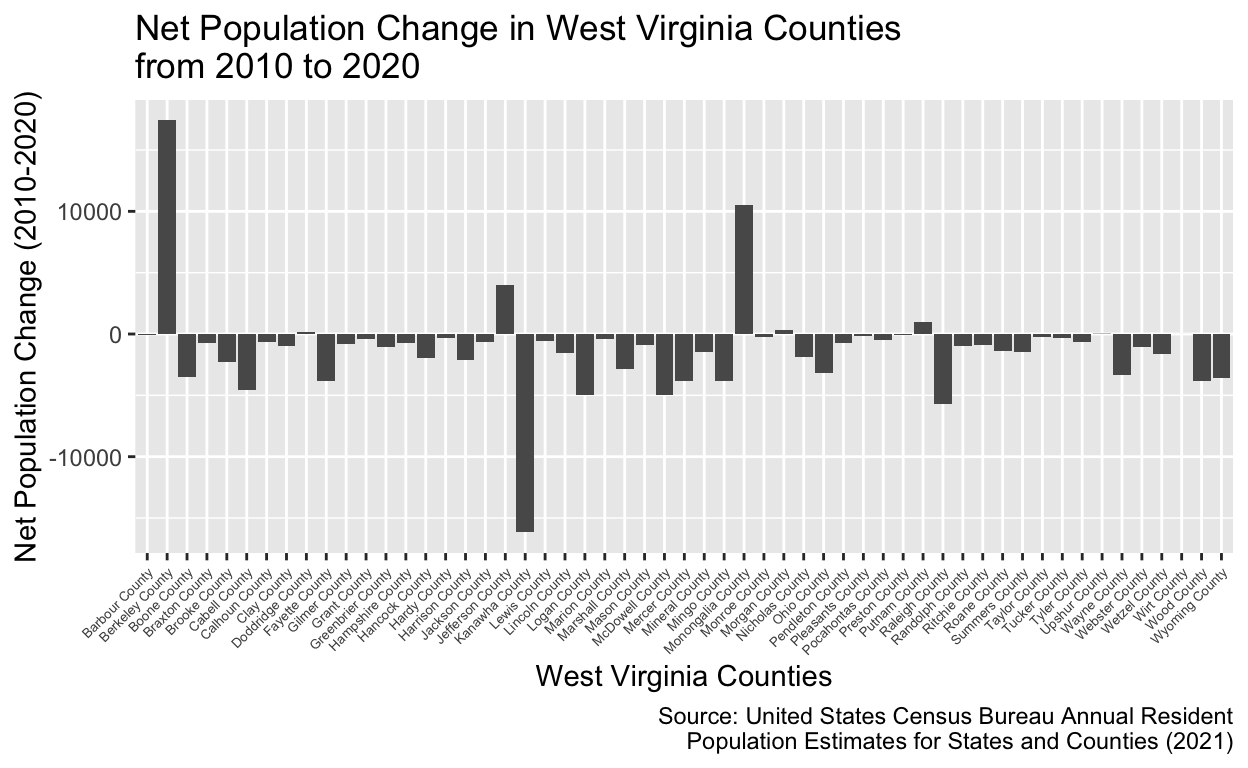
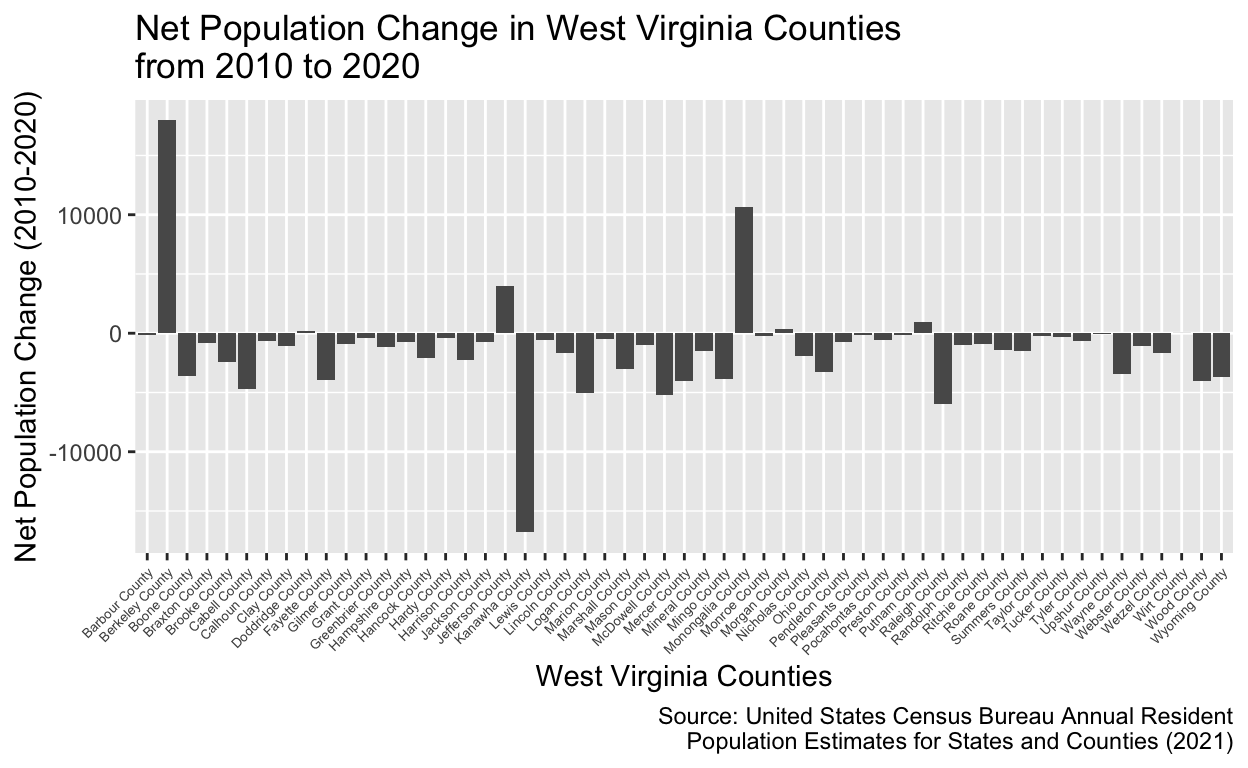
added regression between years of interest

Changed region(s): [[0.1562, 0.25, 0.9688, 0.2812], [0.0312, 0.5625, 0.125, 0.625], [0.0312, 0.25, 0.125, 0.3125]]

diff --git a/index.html b/index.html
@@ -1538,11 +1538,9 @@ code span.wa { color: #5e5e5e; font-style: italic; } /* Warning */
 <span></span>
 <span><span class='va'>WVpopchange</span> <span class='op'>&lt;-</span> <span class='va'>censusPop</span> <span class='op'>|&gt;</span></span>
 <span>  <span class='fu'><a href='https://dplyr.tidyverse.org/reference/filter.html'>filter</a></span><span class='op'>(</span><span class='va'>STATE</span> <span class='op'>==</span> <span class='fl'>54</span><span class='op'>)</span> <span class='op'>|&gt;</span></span>
-<span>  <span class='fu'><a href='https://dplyr.tidyverse.org/reference/group_by.html'>group_by</a></span><span class='op'>(</span><span class='va'>CTYNAME</span>, <span class='va'>CENSUS2010POP</span>, <span class='va'>POPESTIMATE042020</span><span class='op'>)</span> <span class='op'>|&gt;</span></span>
+<span>  <span class='fu'><a href='https://dplyr.tidyverse.org/reference/group_by.html'>group_by</a></span><span class='op'>(</span><span class='va'>CTYNAME</span>, <span class='va'>CENSUS2010POP</span>, <span class='va'>POPESTIMATE2020</span><span class='op'>)</span> <span class='op'>|&gt;</span></span>
 <span>  <span class='fu'><a href='https://dplyr.tidyverse.org/reference/summarise.html'>summarize</a></span><span class='op'>(</span>popdiff <span class='op'>=</span></span>
-<span>              <span class='fu'><a href='https://rdrr.io/r/base/integer.html'>as.integer</a></span><span class='op'>(</span><span class='va'>`POPESTIMATE042020`</span><span class='op'>)</span> <span class='op'>-</span> <span class='fu'><a href='https://rdrr.io/r/base/integer.html'>as.integer</a></span><span class='op'>(</span><span class='va'>`CENSUS2010POP`</span><span class='op'>)</span>,</span>
-<span>            pospopdiff <span class='op'>=</span> </span>
-<span>              <span class='fu'><a href='https://dplyr.tidyverse.org/reference/if_else.html'>if_else</a></span><span class='op'>(</span><span class='va'>popdiff</span> <span class='op'>&gt;=</span> <span class='fl'>0</span>, <span class='fl'>1</span>, <span class='fl'>0</span><span class='op'>)</span><span class='op'>)</span></span>
+<span>              <span class='fu'><a href='https://rdrr.io/r/base/integer.html'>as.integer</a></span><span class='op'>(</span><span class='va'>`POPESTIMATE2020`</span><span class='op'>)</span> <span class='op'>-</span> <span class='fu'><a href='https://rdrr.io/r/base/integer.html'>as.integer</a></span><span class='op'>(</span><span class='va'>`CENSUS2010POP`</span><span class='op'>)</span><span class='op'>)</span></span>
 <span></span>
 <span><span class='va'>WVpopchange</span> <span class='op'>&lt;-</span> <span class='va'>WVpopchange</span><span class='op'>[</span><span class='op'>-</span><span class='fl'>52</span>,<span class='op'>]</span></span>
 <span></span>
@@ -1574,61 +1572,178 @@ code span.wa { color: #5e5e5e; font-style: italic; } /* Warning */
 <span></span>
 <span><span class='va'>cleanWVU2020</span> <span class='op'>&lt;-</span> <span class='va'>WVU2020</span><span class='op'>[</span><span class='op'>-</span><span class='fu'><a href='https://rdrr.io/r/base/c.html'>c</a></span><span class='op'>(</span><span class='fl'>1</span>,<span class='fl'>2</span>,<span class='fl'>3</span>,<span class='fl'>4</span>,<span class='fl'>5</span>,<span class='fl'>6</span>,<span class='fl'>7</span><span class='op'>)</span>,<span class='op'>]</span> <span class='op'>|&gt;</span></span>
 <span>  <span class='fu'><a href='https://dplyr.tidyverse.org/reference/rename.html'>rename</a></span><span class='op'>(</span><span class='st'>"CTYNAME"</span> <span class='op'>=</span> <span class='st'>"Unemployment.Rates..2020..West.Virginia"</span>,</span>
-<span>         <span class='st'>"LaborForce"</span> <span class='op'>=</span> <span class='st'>"X"</span>,</span>
-<span>         <span class='st'>"EmployedPop"</span> <span class='op'>=</span> <span class='st'>"X.1"</span>,</span>
-<span>         <span class='st'>"UnemployedPop"</span> <span class='op'>=</span> <span class='st'>"X.2"</span>,</span>
-<span>         <span class='st'>"UnemploymentRate"</span> <span class='op'>=</span> <span class='st'>"X.3"</span>,</span>
-<span>         <span class='st'>"UnemploymentRateAsPctOfUSAvg"</span> <span class='op'>=</span> <span class='st'>"X.4"</span><span class='op'>)</span></span>
+<span>         <span class='st'>"LaborForce2020"</span> <span class='op'>=</span> <span class='st'>"X"</span>,</span>
+<span>         <span class='st'>"EmployedPop2020"</span> <span class='op'>=</span> <span class='st'>"X.1"</span>,</span>
+<span>         <span class='st'>"UnemployedPop2020"</span> <span class='op'>=</span> <span class='st'>"X.2"</span>,</span>
+<span>         <span class='st'>"UnemploymentRate2020"</span> <span class='op'>=</span> <span class='st'>"X.3"</span>,</span>
+<span>         <span class='st'>"UnemploymentRateAsPctOfUSAvg2020"</span> <span class='op'>=</span> <span class='st'>"X.4"</span><span class='op'>)</span></span>
 <span></span>
 <span><span class='va'>WVpopchange</span><span class='op'>[</span>,<span class='fl'>1</span><span class='op'>]</span> <span class='op'>=</span> <span class='va'>cleanWVU2020</span><span class='op'>[</span>,<span class='fl'>1</span><span class='op'>]</span></span>
 <span></span>
-<span><span class='va'>temp</span> <span class='op'>&lt;-</span> <span class='va'>cleanWVU2020</span> <span class='op'>|&gt;</span></span>
+<span><span class='va'>temp2020</span> <span class='op'>&lt;-</span> <span class='va'>cleanWVU2020</span> <span class='op'>|&gt;</span></span>
 <span>  <span class='fu'><a href='https://dplyr.tidyverse.org/reference/mutate-joins.html'>full_join</a></span><span class='op'>(</span><span class='va'>WVpopchange</span><span class='op'>)</span> <span class='op'>|&gt;</span></span>
-<span>  <span class='fu'><a href='https://dplyr.tidyverse.org/reference/mutate.html'>mutate</a></span><span class='op'>(</span>pctPopchange <span class='op'>=</span></span>
-<span>           <span class='fu'><a href='https://rdrr.io/r/base/integer.html'>as.integer</a></span><span class='op'>(</span><span class='va'>`POPESTIMATE042020`</span><span class='op'>)</span> <span class='op'>/</span></span>
+<span>  <span class='fu'><a href='https://dplyr.tidyverse.org/reference/mutate.html'>mutate</a></span><span class='op'>(</span>pctPop2010change2020 <span class='op'>=</span></span>
+<span>           <span class='fu'><a href='https://rdrr.io/r/base/integer.html'>as.integer</a></span><span class='op'>(</span><span class='va'>`POPESTIMATE2020`</span><span class='op'>)</span> <span class='op'>/</span></span>
 <span>           <span class='fu'><a href='https://rdrr.io/r/base/integer.html'>as.integer</a></span><span class='op'>(</span><span class='va'>`CENSUS2010POP`</span><span class='op'>)</span><span class='op'>)</span> </span>
 <span></span>
-<span><span class='va'>temp</span><span class='op'>[</span>,<span class='fl'>5</span><span class='op'>]</span> <span class='op'>=</span> <span class='fu'><a href='https://rdrr.io/r/base/numeric.html'>as.numeric</a></span><span class='op'>(</span><span class='fu'><a href='https://rdrr.io/r/base/grep.html'>sub</a></span><span class='op'>(</span><span class='st'>"%"</span>, <span class='st'>""</span>, <span class='va'>temp</span><span class='op'>$</span><span class='va'>UnemploymentRate</span>, fixed<span class='op'>=</span><span class='cn'>TRUE</span><span class='op'>)</span><span class='op'>)</span><span class='op'>/</span><span class='fl'>100</span></span>
+<span><span class='va'>temp2020</span><span class='op'>[</span>,<span class='fl'>5</span><span class='op'>]</span> <span class='op'>=</span> <span class='fu'><a href='https://rdrr.io/r/base/numeric.html'>as.numeric</a></span><span class='op'>(</span><span class='fu'><a href='https://rdrr.io/r/base/grep.html'>sub</a></span><span class='op'>(</span><span class='st'>"%"</span>, <span class='st'>""</span>, <span class='va'>temp2020</span><span class='op'>$</span><span class='va'>UnemploymentRate2020</span>, fixed<span class='op'>=</span><span class='cn'>TRUE</span><span class='op'>)</span><span class='op'>)</span><span class='op'>/</span><span class='fl'>100</span></span>
 <span></span>
-<span><span class='fu'><a href='https://rdrr.io/r/stats/lm.html'>lm</a></span><span class='op'>(</span><span class='va'>pctPopchange</span> <span class='op'>~</span> <span class='va'>UnemploymentRate</span>, data <span class='op'>=</span> <span class='va'>temp</span><span class='op'>)</span> <span class='op'>|&gt;</span></span>
+<span><span class='fu'><a href='https://rdrr.io/r/stats/lm.html'>lm</a></span><span class='op'>(</span><span class='va'>pctPop2010change2020</span> <span class='op'>~</span> <span class='va'>UnemploymentRate2020</span>, data <span class='op'>=</span> <span class='va'>temp2020</span><span class='op'>)</span> <span class='op'>|&gt;</span></span>
 <span>  <span class='fu'><a href='https://rdrr.io/r/base/summary.html'>summary</a></span><span class='op'>(</span><span class='op'>)</span></span></code></pre>
 </div>
 <pre><code>
 Call:
-lm(formula = pctPopchange ~ UnemploymentRate, data = temp)
+lm(formula = pctPop2010change2020 ~ UnemploymentRate2020, data = temp2020)
 
 Residuals:
       Min        1Q    Median        3Q       Max 
--0.120321 -0.028964  0.000784  0.020682  0.168517 
+-0.120456 -0.028675  0.000478  0.020315  0.174489 
 
 Coefficients:
-                 Estimate Std. Error t value Pr(&gt;|t|)    
-(Intercept)       1.10679    0.03013  36.737  &lt; 2e-16 ***
-UnemploymentRate -1.74469    0.32360  -5.391 1.65e-06 ***
+                     Estimate Std. Error t value Pr(&gt;|t|)    
+(Intercept)           1.10956    0.03072  36.120  &lt; 2e-16 ***
+UnemploymentRate2020 -1.80123    0.32996  -5.459 1.29e-06 ***
 ---
 Signif. codes:  0 &#39;***&#39; 0.001 &#39;**&#39; 0.01 &#39;*&#39; 0.05 &#39;.&#39; 0.1 &#39; &#39; 1
 
-Residual standard error: 0.05142 on 53 degrees of freedom
-Multiple R-squared:  0.3542,    Adjusted R-squared:  0.342 
-F-statistic: 29.07 on 1 and 53 DF,  p-value: 1.65e-06</code></pre>
+Residual standard error: 0.05243 on 53 degrees of freedom
+Multiple R-squared:  0.3599,    Adjusted R-squared:  0.3478 
+F-statistic:  29.8 on 1 and 53 DF,  p-value: 1.294e-06</code></pre>
 <div class="sourceCode">
-<pre class="sourceCode r"><code class="sourceCode r"><span><span class='va'>table1</span> <span class='op'>&lt;-</span> <span class='fu'><a href='https://rdrr.io/r/stats/lm.html'>lm</a></span><span class='op'>(</span><span class='va'>pctPopchange</span> <span class='op'>~</span> <span class='va'>UnemploymentRate</span>, data <span class='op'>=</span> <span class='va'>temp</span><span class='op'>)</span> <span class='op'>|&gt;</span></span>
+<pre class="sourceCode r"><code class="sourceCode r"><span><span class='va'>table20102020</span> <span class='op'>&lt;-</span> <span class='fu'><a href='https://rdrr.io/r/stats/lm.html'>lm</a></span><span class='op'>(</span><span class='va'>pctPop2010change2020</span> <span class='op'>~</span> <span class='va'>UnemploymentRate2020</span>, data <span class='op'>=</span> <span class='va'>temp2020</span><span class='op'>)</span> <span class='op'>|&gt;</span></span>
 <span>  <span class='fu'>broom</span><span class='fu'>::</span><span class='fu'><a href='https://generics.r-lib.org/reference/tidy.html'>tidy</a></span><span class='op'>(</span><span class='op'>)</span> <span class='op'>|&gt;</span></span>
 <span>  <span class='fu'><a href='https://dplyr.tidyverse.org/reference/select.html'>select</a></span><span class='op'>(</span><span class='va'>term</span>, <span class='va'>estimate</span><span class='op'>)</span> <span class='op'>|&gt;</span>  </span>
 <span>  <span class='fu'>knitr</span><span class='fu'>::</span><span class='fu'><a href='https://rdrr.io/pkg/knitr/man/kable.html'>kable</a></span><span class='op'>(</span>digits <span class='op'>=</span> <span class='fl'>2</span><span class='op'>)</span></span>
 <span></span>
-<span><span class='fu'><a href='https://rdrr.io/r/base/print.html'>print</a></span><span class='op'>(</span><span class='va'>table1</span><span class='op'>)</span></span></code></pre>
+<span><span class='fu'><a href='https://rdrr.io/r/base/print.html'>print</a></span><span class='op'>(</span><span class='va'>table20102020</span><span class='op'>)</span></span></code></pre>
 </div>
 <pre><code>
 
-|term             | estimate|
-|:----------------|--------:|
-|(Intercept)      |     1.11|
-|UnemploymentRate |    -1.74|</code></pre>
+|term                 | estimate|
+|:--------------------|--------:|
+|(Intercept)          |     1.11|
+|UnemploymentRate2020 |    -1.80|</code></pre>
 </div>
-<p>The table above, formed from a linear regression of unemployment rates on percent population changes in West Virginia counties, indicates that we could expect to see a county’s population increase to 111% of its 2010 population by 2020 when assuming that the county has an unemployment rate of 0 in 2020. The UnemploymentRate coefficient indicates that a county’s population is expected to decrease by 174% for every 100% increase in unemployment. A more useful interpretation of this, however, might be that a county’s population is expected to decrease by 17.4% for every 10% increase in unemployment.</p>
+<p>The table above, formed from a linear regression of unemployment rates on percent population changes in West Virginia counties, indicates that we could expect to see a county’s population increase to 111% of its 2010 population by 2020 when assuming that the county has an unemployment rate of 0 in 2020. The UnemploymentRate coefficient indicates that a county’s population is expected to decrease by 180% for every 100% increase in unemployment. A more useful interpretation of this, however, might be that a county’s population is expected to decrease by 18.0% for every 10% increase in unemployment.</p>
 <p>The summary function revealed that the p-values associated with the intercept and UnemploymentRate coefficient are highly statistically significant, meaning we can reject the null hypothesis that the effects of unemployment rates on population change are due to random chance.</p>
-<div class="sourceCode" id="cb3"><pre class="sourceCode r distill-force-highlighting-css"><code class="sourceCode r"></code></pre></div>
+<div class="layout-chunk" data-layout="l-body">
+<div class="sourceCode">
+<pre class="sourceCode r"><code class="sourceCode r"><span><span class='va'>WVCen</span> <span class='op'>&lt;-</span> <span class='va'>censusPop</span> <span class='op'>|&gt;</span></span>
+<span>  <span class='fu'><a href='https://dplyr.tidyverse.org/reference/filter.html'>filter</a></span><span class='op'>(</span><span class='va'>STATE</span> <span class='op'>==</span> <span class='fl'>54</span><span class='op'>)</span> <span class='op'>|&gt;</span></span>
+<span>  <span class='fu'><a href='https://dplyr.tidyverse.org/reference/group_by.html'>group_by</a></span><span class='op'>(</span><span class='va'>CTYNAME</span>, <span class='va'>POPESTIMATE2018</span>, <span class='va'>POPESTIMATE2019</span>, <span class='va'>POPESTIMATE2020</span><span class='op'>)</span> <span class='op'>|&gt;</span></span>
+<span>  <span class='fu'><a href='https://dplyr.tidyverse.org/reference/summarise.html'>summarize</a></span><span class='op'>(</span>popdiff2019 <span class='op'>=</span></span>
+<span>              <span class='fu'><a href='https://rdrr.io/r/base/integer.html'>as.integer</a></span><span class='op'>(</span><span class='va'>`POPESTIMATE2019`</span><span class='op'>)</span> <span class='op'>-</span> <span class='fu'><a href='https://rdrr.io/r/base/integer.html'>as.integer</a></span><span class='op'>(</span><span class='va'>`POPESTIMATE2018`</span><span class='op'>)</span>,</span>
+<span>            pctPopchange2019 <span class='op'>=</span></span>
+<span>              <span class='fu'><a href='https://rdrr.io/r/base/integer.html'>as.integer</a></span><span class='op'>(</span><span class='va'>`POPESTIMATE2019`</span><span class='op'>)</span> <span class='op'>/</span> <span class='fu'><a href='https://rdrr.io/r/base/integer.html'>as.integer</a></span><span class='op'>(</span><span class='va'>`POPESTIMATE2018`</span><span class='op'>)</span>,</span>
+<span>            popdiff2020 <span class='op'>=</span></span>
+<span>              <span class='fu'><a href='https://rdrr.io/r/base/integer.html'>as.integer</a></span><span class='op'>(</span><span class='va'>`POPESTIMATE2020`</span><span class='op'>)</span> <span class='op'>-</span> <span class='fu'><a href='https://rdrr.io/r/base/integer.html'>as.integer</a></span><span class='op'>(</span><span class='va'>`POPESTIMATE2019`</span><span class='op'>)</span>,</span>
+<span>            pctPopchange2020 <span class='op'>=</span></span>
+<span>              <span class='fu'><a href='https://rdrr.io/r/base/integer.html'>as.integer</a></span><span class='op'>(</span><span class='va'>`POPESTIMATE2020`</span><span class='op'>)</span> <span class='op'>/</span> <span class='fu'><a href='https://rdrr.io/r/base/integer.html'>as.integer</a></span><span class='op'>(</span><span class='va'>`POPESTIMATE2019`</span><span class='op'>)</span><span class='op'>)</span></span>
+<span></span>
+<span><span class='va'>WVCen</span> <span class='op'>&lt;-</span> <span class='va'>WVCen</span><span class='op'>[</span><span class='op'>-</span><span class='fl'>52</span>,<span class='op'>]</span></span>
+<span><span class='va'>WVCen</span><span class='op'>[</span>,<span class='fl'>1</span><span class='op'>]</span> <span class='op'>=</span> <span class='va'>cleanWVU2020</span><span class='op'>[</span>,<span class='fl'>1</span><span class='op'>]</span></span>
+<span></span>
+<span><span class='va'>cleanWVU2019</span> <span class='op'>&lt;-</span> <span class='va'>WVU2019</span><span class='op'>[</span><span class='op'>-</span><span class='fu'><a href='https://rdrr.io/r/base/c.html'>c</a></span><span class='op'>(</span><span class='fl'>1</span>,<span class='fl'>2</span>,<span class='fl'>3</span>,<span class='fl'>4</span>,<span class='fl'>5</span>,<span class='fl'>6</span>,<span class='fl'>7</span><span class='op'>)</span>,<span class='op'>]</span> <span class='op'>|&gt;</span></span>
+<span>  <span class='fu'><a href='https://dplyr.tidyverse.org/reference/rename.html'>rename</a></span><span class='op'>(</span><span class='st'>"CTYNAME"</span> <span class='op'>=</span> <span class='st'>"Unemployment.Rates..2019..West.Virginia"</span>,</span>
+<span>         <span class='st'>"LaborForce2019"</span> <span class='op'>=</span> <span class='st'>"X"</span>,</span>
+<span>         <span class='st'>"EmployedPop2019"</span> <span class='op'>=</span> <span class='st'>"X.1"</span>,</span>
+<span>         <span class='st'>"UnemployedPop2019"</span> <span class='op'>=</span> <span class='st'>"X.2"</span>,</span>
+<span>         <span class='st'>"UnemploymentRate2019"</span> <span class='op'>=</span> <span class='st'>"X.3"</span>,</span>
+<span>         <span class='st'>"UnemploymentRateAsPctOfUSAvg2019"</span> <span class='op'>=</span> <span class='st'>"X.4"</span><span class='op'>)</span></span>
+<span></span>
+<span><span class='va'>cleanWVU2018</span> <span class='op'>&lt;-</span> <span class='va'>WVU2018</span><span class='op'>[</span><span class='op'>-</span><span class='fu'><a href='https://rdrr.io/r/base/c.html'>c</a></span><span class='op'>(</span><span class='fl'>1</span>,<span class='fl'>2</span>,<span class='fl'>3</span>,<span class='fl'>4</span>,<span class='fl'>5</span>,<span class='fl'>6</span>,<span class='fl'>7</span><span class='op'>)</span>,<span class='op'>]</span> <span class='op'>|&gt;</span></span>
+<span>  <span class='fu'><a href='https://dplyr.tidyverse.org/reference/rename.html'>rename</a></span><span class='op'>(</span><span class='st'>"CTYNAME"</span> <span class='op'>=</span> <span class='st'>"Unemployment.Rates..2018..West.Virginia"</span>,</span>
+<span>         <span class='st'>"LaborForce2018"</span> <span class='op'>=</span> <span class='st'>"X"</span>,</span>
+<span>         <span class='st'>"EmployedPop2018"</span> <span class='op'>=</span> <span class='st'>"X.1"</span>,</span>
+<span>         <span class='st'>"UnemployedPop2018"</span> <span class='op'>=</span> <span class='st'>"X.2"</span>,</span>
+<span>         <span class='st'>"UnemploymentRate2018"</span> <span class='op'>=</span> <span class='st'>"X.3"</span>,</span>
+<span>         <span class='st'>"UnemploymentRateAsPctOfUSAvg2018"</span> <span class='op'>=</span> <span class='st'>"X.4"</span><span class='op'>)</span></span>
+<span></span>
+<span><span class='va'>fullWV</span> <span class='op'>&lt;-</span> <span class='va'>cleanWVU2018</span> <span class='op'>|&gt;</span></span>
+<span>  <span class='fu'><a href='https://dplyr.tidyverse.org/reference/mutate-joins.html'>full_join</a></span><span class='op'>(</span><span class='va'>cleanWVU2019</span><span class='op'>)</span></span>
+<span><span class='va'>fullWV</span> <span class='op'>&lt;-</span> <span class='va'>fullWV</span> <span class='op'>|&gt;</span></span>
+<span>  <span class='fu'><a href='https://dplyr.tidyverse.org/reference/mutate-joins.html'>full_join</a></span><span class='op'>(</span><span class='va'>cleanWVU2020</span><span class='op'>)</span></span>
+<span><span class='va'>fullWV</span> <span class='op'>&lt;-</span> <span class='va'>fullWV</span> <span class='op'>|&gt;</span></span>
+<span>  <span class='fu'><a href='https://dplyr.tidyverse.org/reference/mutate-joins.html'>full_join</a></span><span class='op'>(</span><span class='va'>WVCen</span><span class='op'>)</span></span>
+<span></span>
+<span><span class='va'>fullWV</span><span class='op'>[</span>,<span class='fl'>5</span><span class='op'>]</span> <span class='op'>=</span> <span class='fu'><a href='https://rdrr.io/r/base/numeric.html'>as.numeric</a></span><span class='op'>(</span><span class='fu'><a href='https://rdrr.io/r/base/grep.html'>sub</a></span><span class='op'>(</span><span class='st'>"%"</span>, <span class='st'>""</span>, <span class='va'>fullWV</span><span class='op'>$</span><span class='va'>UnemploymentRate2018</span>, fixed<span class='op'>=</span><span class='cn'>TRUE</span><span class='op'>)</span><span class='op'>)</span><span class='op'>/</span><span class='fl'>100</span></span>
+<span><span class='va'>fullWV</span><span class='op'>[</span>,<span class='fl'>10</span><span class='op'>]</span> <span class='op'>=</span> <span class='fu'><a href='https://rdrr.io/r/base/numeric.html'>as.numeric</a></span><span class='op'>(</span><span class='fu'><a href='https://rdrr.io/r/base/grep.html'>sub</a></span><span class='op'>(</span><span class='st'>"%"</span>, <span class='st'>""</span>, <span class='va'>fullWV</span><span class='op'>$</span><span class='va'>UnemploymentRate2019</span>, fixed<span class='op'>=</span><span class='cn'>TRUE</span><span class='op'>)</span><span class='op'>)</span><span class='op'>/</span><span class='fl'>100</span></span>
+<span><span class='va'>fullWV</span><span class='op'>[</span>,<span class='fl'>15</span><span class='op'>]</span> <span class='op'>=</span> <span class='fu'><a href='https://rdrr.io/r/base/numeric.html'>as.numeric</a></span><span class='op'>(</span><span class='fu'><a href='https://rdrr.io/r/base/grep.html'>sub</a></span><span class='op'>(</span><span class='st'>"%"</span>, <span class='st'>""</span>, <span class='va'>fullWV</span><span class='op'>$</span><span class='va'>UnemploymentRate2020</span>, fixed<span class='op'>=</span><span class='cn'>TRUE</span><span class='op'>)</span><span class='op'>)</span><span class='op'>/</span><span class='fl'>100</span></span>
+<span></span>
+<span><span class='co'>#fullWV</span></span>
+<span></span>
+<span><span class='fu'><a href='https://rdrr.io/r/stats/lm.html'>lm</a></span><span class='op'>(</span><span class='va'>pctPopchange2019</span> <span class='op'>~</span> <span class='va'>UnemploymentRate2018</span>, data <span class='op'>=</span> <span class='va'>fullWV</span><span class='op'>)</span> <span class='op'>|&gt;</span></span>
+<span>  <span class='fu'><a href='https://rdrr.io/r/base/summary.html'>summary</a></span><span class='op'>(</span><span class='op'>)</span></span></code></pre>
+</div>
+<pre><code>
+Call:
+lm(formula = pctPopchange2019 ~ UnemploymentRate2018, data = fullWV)
+
+Residuals:
+       Min         1Q     Median         3Q        Max 
+-0.0159292 -0.0028930 -0.0007161  0.0039614  0.0198380 
+
+Coefficients:
+                      Estimate Std. Error t value Pr(&gt;|t|)    
+(Intercept)           1.013478   0.003702 273.747  &lt; 2e-16 ***
+UnemploymentRate2018 -0.375136   0.062014  -6.049 1.51e-07 ***
+---
+Signif. codes:  0 &#39;***&#39; 0.001 &#39;**&#39; 0.01 &#39;*&#39; 0.05 &#39;.&#39; 0.1 &#39; &#39; 1
+
+Residual standard error: 0.006152 on 53 degrees of freedom
+Multiple R-squared:  0.4084,    Adjusted R-squared:  0.3973 
+F-statistic: 36.59 on 1 and 53 DF,  p-value: 1.512e-07</code></pre>
+<div class="sourceCode">
+<pre class="sourceCode r"><code class="sourceCode r"><span><span class='va'>table2019</span> <span class='op'>&lt;-</span> <span class='fu'><a href='https://rdrr.io/r/stats/lm.html'>lm</a></span><span class='op'>(</span><span class='va'>pctPopchange2019</span> <span class='op'>~</span> <span class='va'>UnemploymentRate2018</span>, data <span class='op'>=</span> <span class='va'>fullWV</span><span class='op'>)</span> <span class='op'>|&gt;</span></span>
+<span>  <span class='fu'>broom</span><span class='fu'>::</span><span class='fu'><a href='https://generics.r-lib.org/reference/tidy.html'>tidy</a></span><span class='op'>(</span><span class='op'>)</span> <span class='op'>|&gt;</span></span>
+<span>  <span class='fu'><a href='https://dplyr.tidyverse.org/reference/select.html'>select</a></span><span class='op'>(</span><span class='va'>term</span>, <span class='va'>estimate</span>, <span class='va'>p.value</span><span class='op'>)</span> <span class='op'>|&gt;</span>  </span>
+<span>  <span class='fu'>knitr</span><span class='fu'>::</span><span class='fu'><a href='https://rdrr.io/pkg/knitr/man/kable.html'>kable</a></span><span class='op'>(</span>digits <span class='op'>=</span> <span class='fl'>2</span><span class='op'>)</span></span>
+<span><span class='fu'><a href='https://rdrr.io/r/base/print.html'>print</a></span><span class='op'>(</span><span class='va'>table2019</span><span class='op'>)</span></span></code></pre>
+</div>
+<pre><code>
+
+|term                 | estimate| p.value|
+|:--------------------|--------:|-------:|
+|(Intercept)          |     1.01|       0|
+|UnemploymentRate2018 |    -0.38|       0|</code></pre>
+<div class="sourceCode">
+<pre class="sourceCode r"><code class="sourceCode r"><span><span class='fu'><a href='https://rdrr.io/r/stats/lm.html'>lm</a></span><span class='op'>(</span><span class='va'>pctPopchange2020</span> <span class='op'>~</span> <span class='va'>UnemploymentRate2019</span>, data <span class='op'>=</span> <span class='va'>fullWV</span><span class='op'>)</span> <span class='op'>|&gt;</span></span>
+<span>  <span class='fu'><a href='https://rdrr.io/r/base/summary.html'>summary</a></span><span class='op'>(</span><span class='op'>)</span></span></code></pre>
+</div>
+<pre><code>
+Call:
+lm(formula = pctPopchange2020 ~ UnemploymentRate2019, data = fullWV)
+
+Residuals:
+       Min         1Q     Median         3Q        Max 
+-0.0199922 -0.0040231 -0.0009034  0.0029207  0.0229805 
+
+Coefficients:
+                      Estimate Std. Error t value Pr(&gt;|t|)    
+(Intercept)           1.008739   0.003178 317.368  &lt; 2e-16 ***
+UnemploymentRate2019 -0.300119   0.052877  -5.676 5.91e-07 ***
+---
+Signif. codes:  0 &#39;***&#39; 0.001 &#39;**&#39; 0.01 &#39;*&#39; 0.05 &#39;.&#39; 0.1 &#39; &#39; 1
+
+Residual standard error: 0.006547 on 53 degrees of freedom
+Multiple R-squared:  0.378, Adjusted R-squared:  0.3663 
+F-statistic: 32.22 on 1 and 53 DF,  p-value: 5.908e-07</code></pre>
+<div class="sourceCode">
+<pre class="sourceCode r"><code class="sourceCode r"><span><span class='va'>table2020</span> <span class='op'>&lt;-</span> <span class='fu'><a href='https://rdrr.io/r/stats/lm.html'>lm</a></span><span class='op'>(</span><span class='va'>pctPopchange2020</span> <span class='op'>~</span> <span class='va'>UnemploymentRate2019</span>, data <span class='op'>=</span> <span class='va'>fullWV</span><span class='op'>)</span> <span class='op'>|&gt;</span></span>
+<span>  <span class='fu'>broom</span><span class='fu'>::</span><span class='fu'><a href='https://generics.r-lib.org/reference/tidy.html'>tidy</a></span><span class='op'>(</span><span class='op'>)</span> <span class='op'>|&gt;</span></span>
+<span>  <span class='fu'><a href='https://dplyr.tidyverse.org/reference/select.html'>select</a></span><span class='op'>(</span><span class='va'>term</span>, <span class='va'>estimate</span>, <span class='va'>p.value</span><span class='op'>)</span> <span class='op'>|&gt;</span>  </span>
+<span>  <span class='fu'>knitr</span><span class='fu'>::</span><span class='fu'><a href='https://rdrr.io/pkg/knitr/man/kable.html'>kable</a></span><span class='op'>(</span>digits <span class='op'>=</span> <span class='fl'>2</span><span class='op'>)</span></span>
+<span><span class='fu'><a href='https://rdrr.io/r/base/print.html'>print</a></span><span class='op'>(</span><span class='va'>table2020</span><span class='op'>)</span></span></code></pre>
+</div>
+<pre><code>
+
+|term                 | estimate| p.value|
+|:--------------------|--------:|-------:|
+|(Intercept)          |     1.01|       0|
+|UnemploymentRate2019 |    -0.30|       0|</code></pre>
+</div>
+<h2 id="for-multivariate-add-regression-by-state-to-consider-state-policies.-add-states-as-variable-in-the-regression.">for multivariate, add regression by state (to consider state policies. Add states as variable in the regression.)</h2>
+<div class="sourceCode" id="cb7"><pre class="sourceCode r distill-force-highlighting-css"><code class="sourceCode r"></code></pre></div>
 <!--radix_placeholder_article_footer-->
 <!--/radix_placeholder_article_footer-->
 </div>
